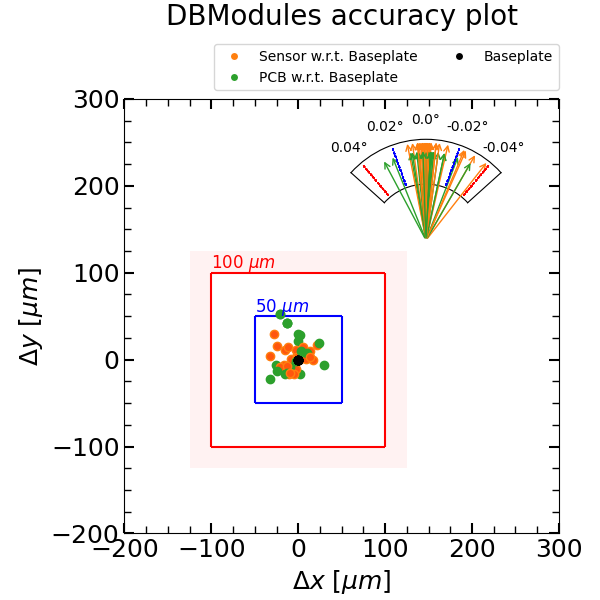
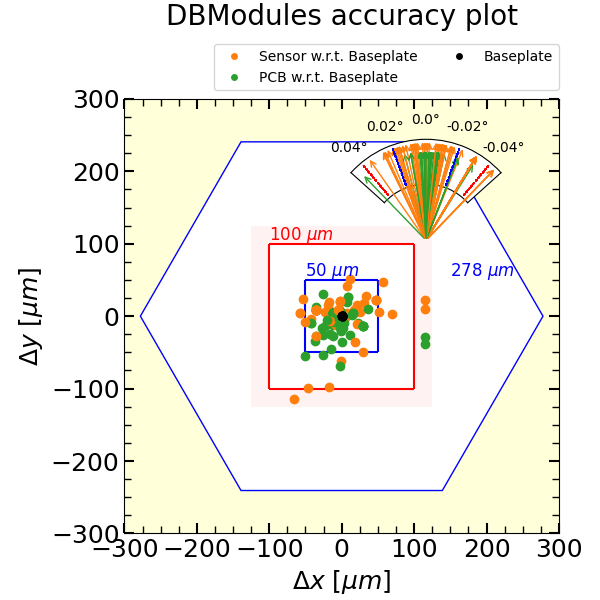
changes for plt_Default.py, add yellow board

Changed region(s): [[0.09, 0.15, 0.93, 0.93], [0.69, 0.48, 0.72, 0.6]]

diff --git a/make_accuracy_plot_Default.py b/make_accuracy_plot_Default.py
@@ -15,7 +15,8 @@
 
 # 0.1: Simplified for Use in Jupyter Notebook
 # 0.2: Added an orientation setting
-from matplotlib.patches import RegularPolygon
+from matplotlib.patches import PathPatch, RegularPolygon
+from matplotlib.path import Path
 import numpy as np
 import matplotlib.pyplot as plt
 from matplotlib.lines import Line2D
@@ -110,15 +111,29 @@ def make_accuracy_plot(List):
     ax.set_xlim(-300, 300)
     ax.set_ylim(-300, 300)
 #The following code is for hexagonal boundary lines
-    hex50 = RegularPolygon(
-        (0, 0), numVertices=6, radius=278, orientation=np.pi/6,
-        fill=False, edgecolor='b', linewidth=2
-        )
 
-    ax.add_patch(hex50)
+    xmin, xmax = ax.get_xlim()
+    ymin, ymax = ax.get_ylim()
+
+    ax.fill_between(
+        [xmin, xmax],
+        ymin, ymax,
+        color='yellow',
+        alpha=0.15,
+        zorder=0
+    )
+
+    hex_cut = RegularPolygon(
+        (0, 0),
+        numVertices=6,
+        radius=278,
+        orientation=np.pi/6,
+        facecolor='white',   # 和 figure 背景一致
+        edgecolor='blue',
+        zorder=1
+    )
     ax.text(150, 55,  r'278 $\mu m$',  color='b', fontsize=12)
-
-
+    ax.add_patch(hex_cut)
 #The following code is for square boundary lines
     
     ax.vlines(-50, -50, 50, colors='b')
